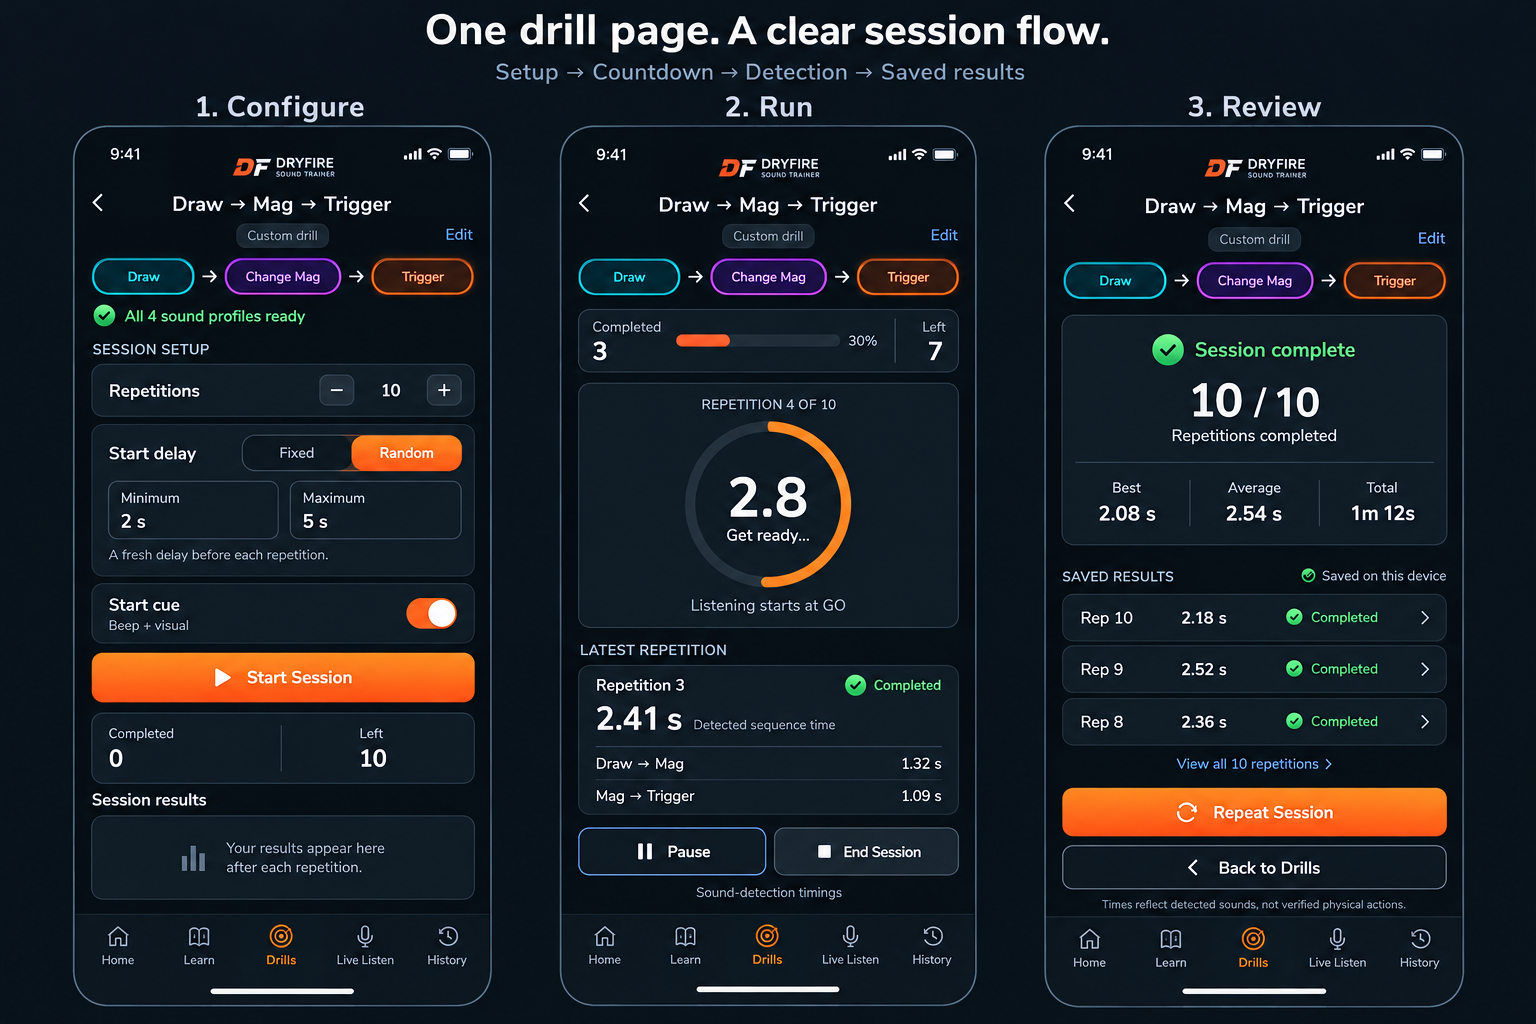
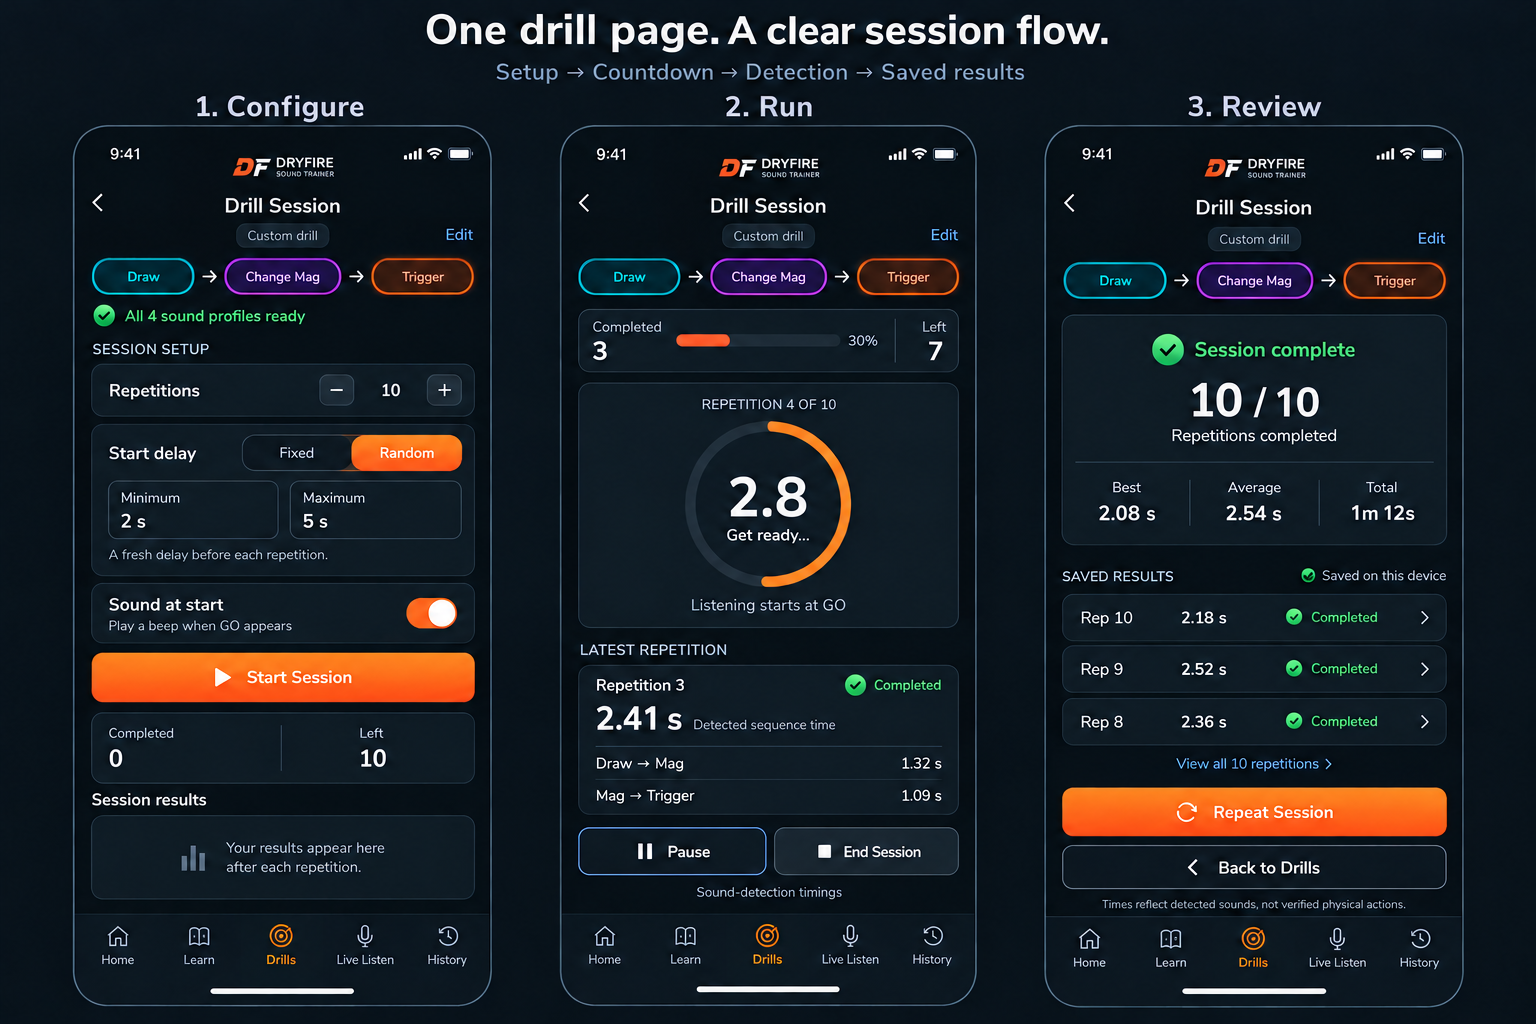
Clarify drill sequence display and optional start sound

diff --git a/docs/design/drill-session.md b/docs/design/drill-session.md
@@ -9,3 +9,12 @@ This mockup proposes three states of one dedicated drill page. It is a design pr
 - **Review:** show the session summary and saved repetition results, with Repeat Session and Back to Drills controls.
 
 Times describe sound detection, not verified physical actions. The mockup contains illustrative sample results.
+
+## Clarified sequence and start controls
+
+- Use **Drill Session** as the page title. Show the complete action sequence once, in the colored sequence strip beneath the title. These chips describe the ordered actions; they are not separate Start buttons.
+- Keep the timing breakdowns in a completed repetition's result: they show individual intervals rather than repeating the full drill heading.
+- Rename the ambiguous Start cue control to **Sound at start**, with the explanation **Play a beep when GO appears**.
+- With this switch on, play a short beep as each repetition's countdown ends and the visual **GO** signal appears. With it off, show the same countdown and GO signal silently.
+- The visual start signal remains available in both modes. The sound switch does not control microphone permission, recording, the start delay or whether a repetition begins.
+- Starting the session remains an explicit **Start Session** action. A fixed or random delay is applied before each repetition.

diff --git a/docs/design/multiple-guns.md b/docs/design/multiple-guns.md
@@ -1,6 +1,6 @@
 # Multiple guns — proposed front-door flow
 
-These visualisations are proposals for confirmation. They do not implement gun profiles, custom drill editing, session results or cloud synchronization.
+The first-visit, library and selected-gun flow was approved by the user. These visualisations describe the accepted proposal. They do not implement gun profiles, custom drill editing, session results or cloud synchronization.
 
 ## First visit, library and selected-gun Home
 
